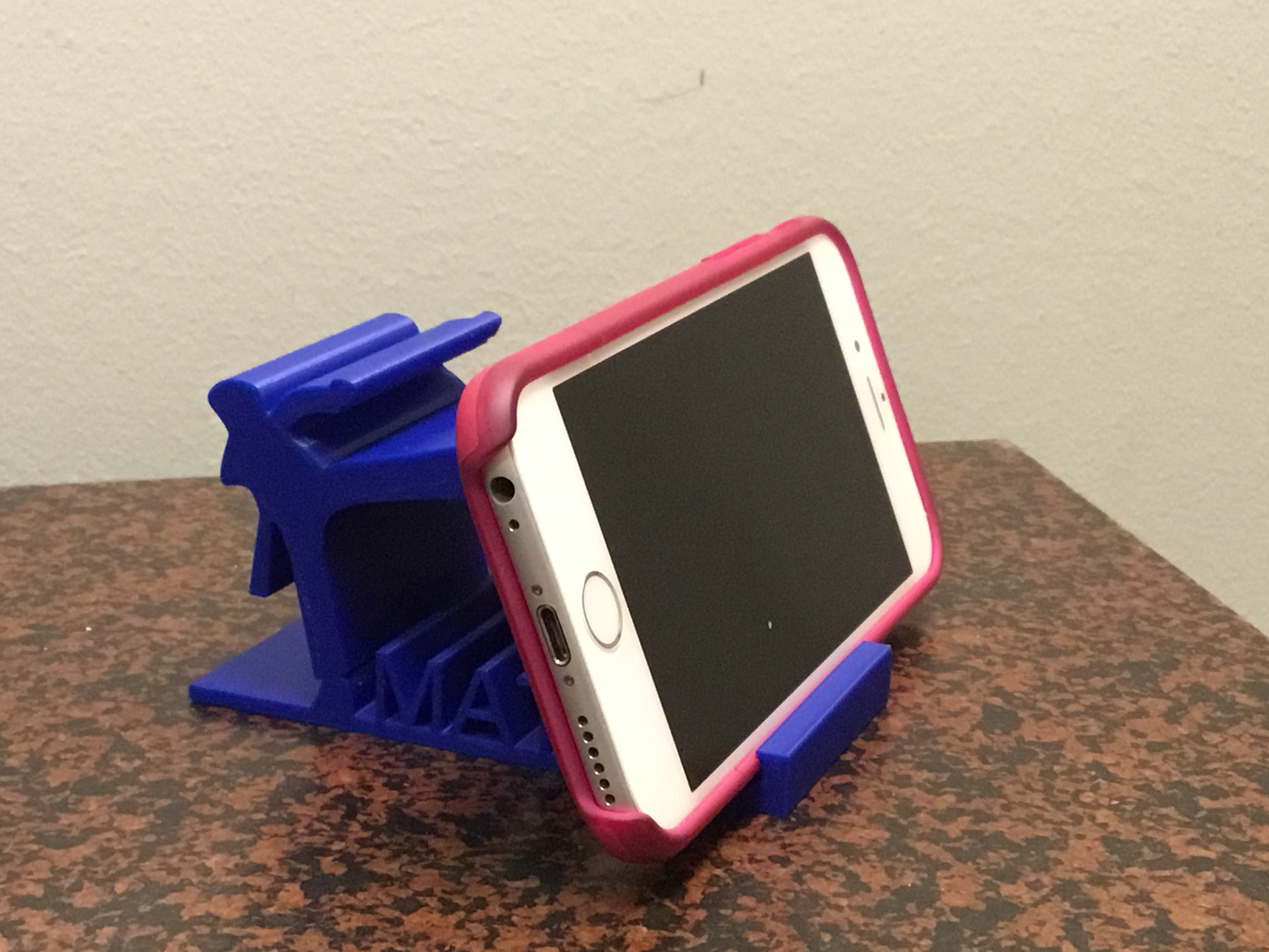
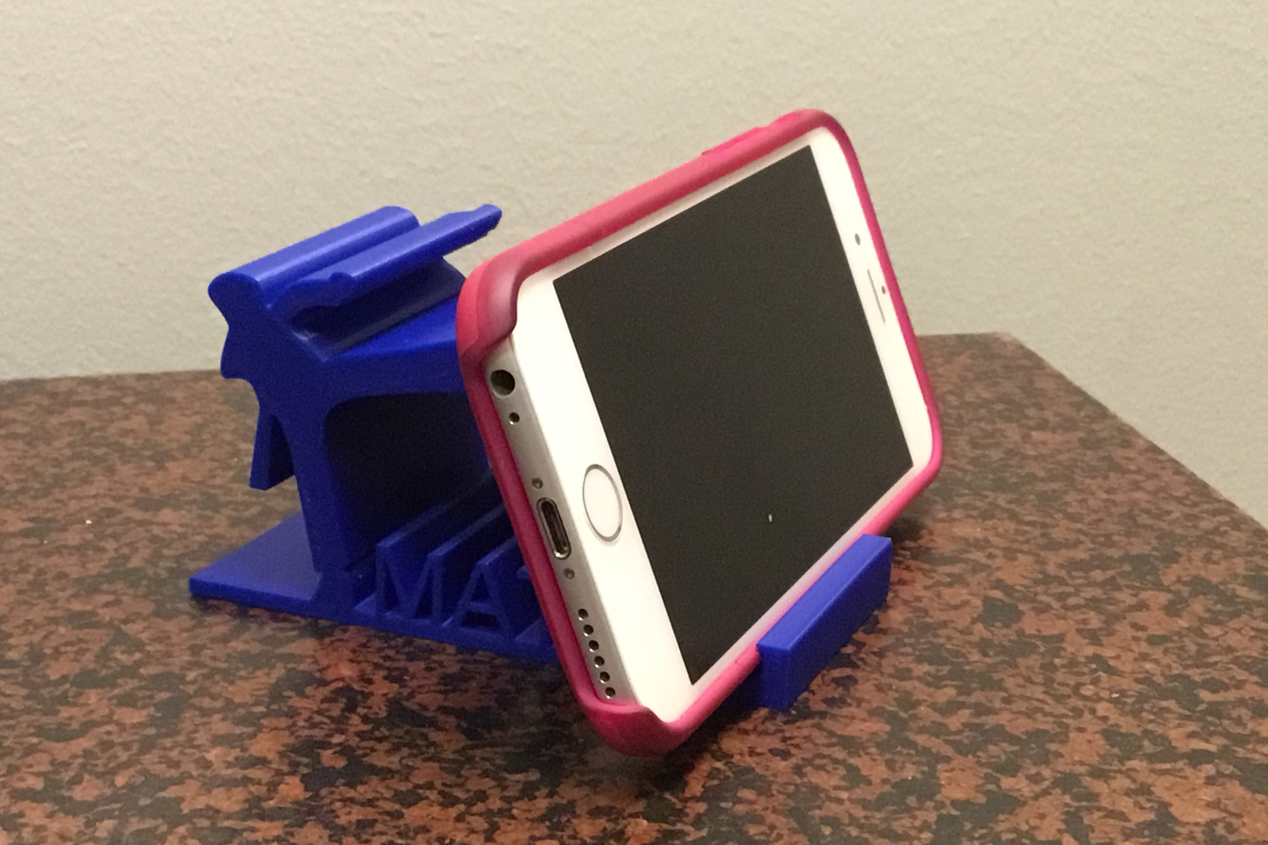
image work

diff --git a/index.html b/index.html
@@ -260,7 +260,7 @@
                     <!-- Portfolio Item 6 -->
                     <figure class="item" data-groups='["all", "media"]'>
                       <a class="ajax-page-load" href="portfolio-3.html">
-                        <img src="images/portfolio/6.jpg" alt="">
+                        <img src="images/portfolio/IMG_6800.jpg" alt="">
                         <div>
                           <h5 class="name">3D Prints & CAD</h5>
                           <small>Skills</small>
